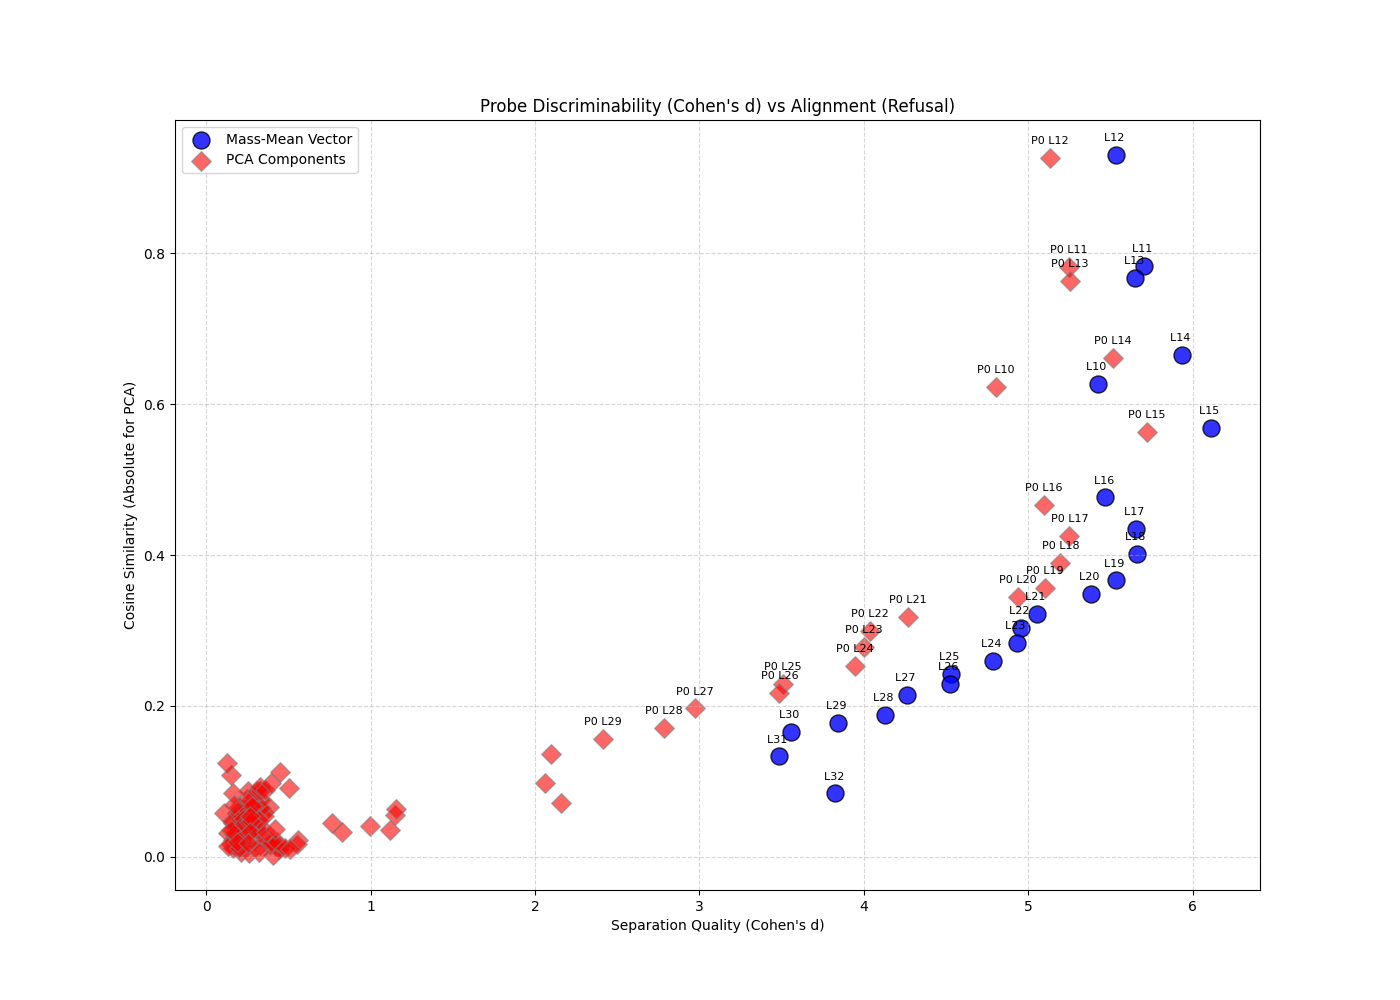
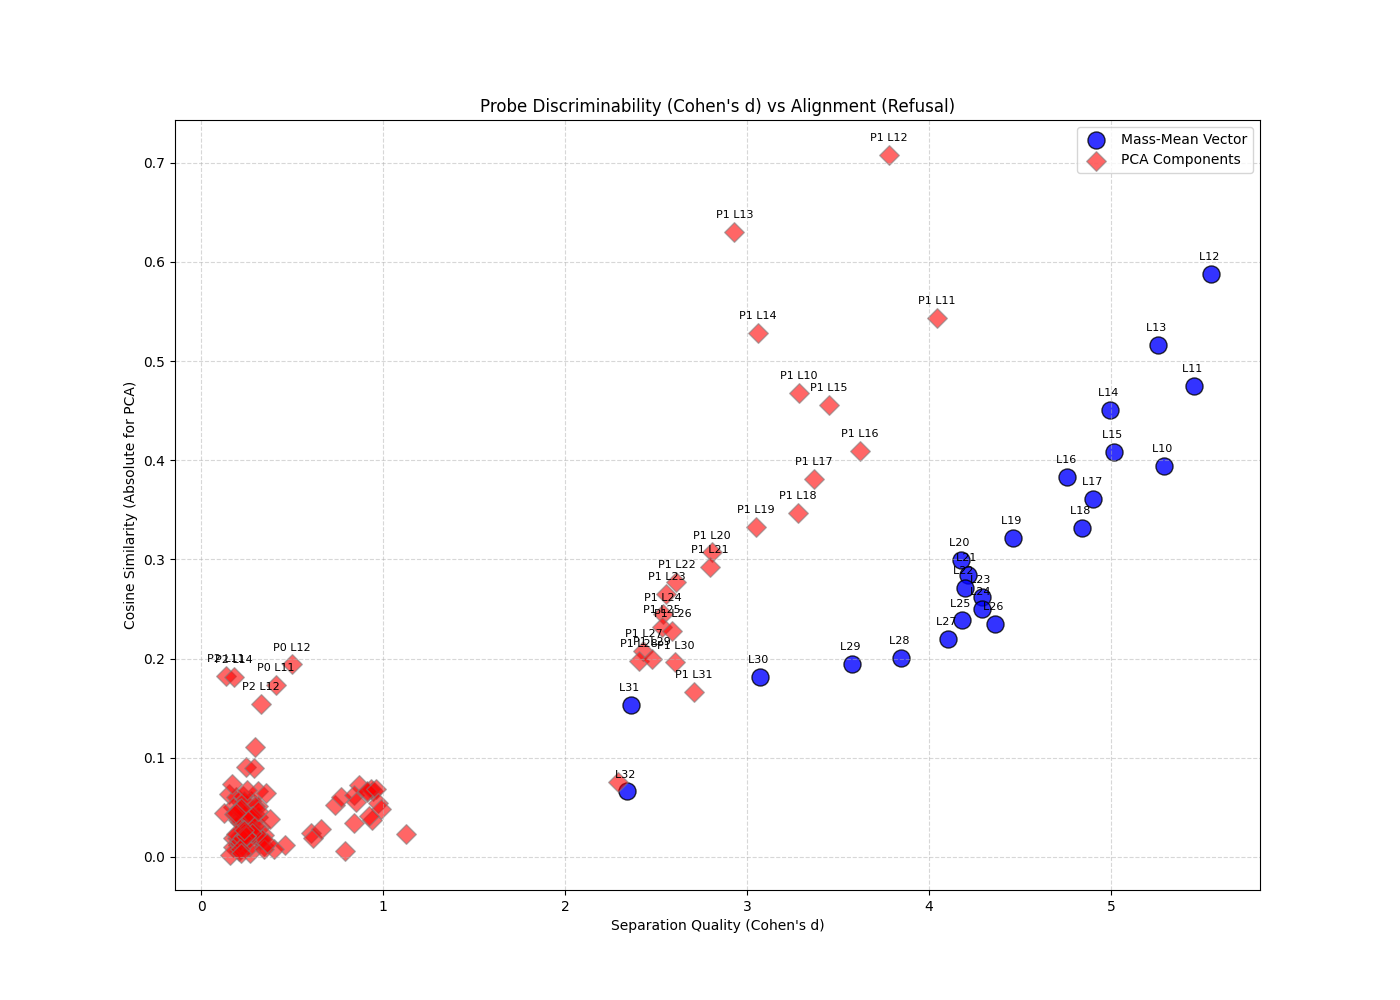
tried position -6

diff --git a/linear_probe/control/refusal_control/save_refusal_activations.py b/linear_probe/control/refusal_control/save_refusal_activations.py
@@ -67,7 +67,7 @@ def main():
                 tokenizer, 
                 instruction, 
                 min_layer_to_save=args.min_layer,
-                position=-5 
+                position=-6
             )
             
             for layer, act in current_activations.items():
